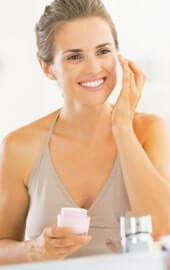
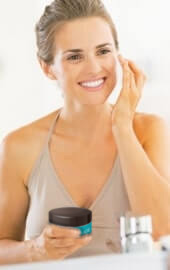
vlad

Changed region(s): [[0.2647, 0.7407, 0.5588, 0.8889]]

diff --git a/app/components/reviews/reviews.html b/app/components/reviews/reviews.html
@@ -1,4 +1,5 @@
-<section class="reviews block" id="reviews">
+<section class="reviews block"  id="reviews">
+
 	<div data-offset="20" class="rev-parallax-before parallax"></div>
 	<div data-offset="10" class="rev-parallax-back parallax"></div>
   <div class="container">
@@ -14,7 +15,7 @@
 									<div class="reviews-box__name">Оксана, 39 лет,</div>
 									<div class="reviews-box__city">Москва</div>
 									<p class="reviews-box__text">
-										Крем работает на ура и стоит
+										Гель работает на ура и стоит
 										<span class="text-nowrap">не дорого!</span> Сначала эффект был
 										<span class="text-nowrap">не очень</span> заметным, но через месяц
 										морщинки действительно разглаживаются.
@@ -31,7 +32,7 @@
 									<div class="reviews-box__city">Омск</div>
 									<p class="reviews-box__text">
 										Бедный мой косметолог расстроится, что я больше не буду к нему
-										ходить! А зачем? Этот крем эффективнее и дешевле всех этих
+										ходить! А зачем? Этот гель эффективнее и дешевле всех этих
 										посещений косметолога.
 									</p>
 								</div>
@@ -44,7 +45,7 @@
 									<div class="reviews-box__name">Кристина, 30 лет,</div>
 									<div class="reviews-box__city">Уфа</div>
 									<p class="reviews-box__text">
-										Очень удобные капсулки с кремом на день и ночь. Приятно
+										Очень удобные капсулки с гелем на день и ночь. Приятно
 										использовать. Результат порадовал - лицо посвежело, порозовело,
 										тон стал более ровным, морщины даже глубокие теперь разгладились.
 									</p>
@@ -58,7 +59,7 @@
 									<div class="reviews-box__name">Валерия, 43 года,</div>
 									<div class="reviews-box__city">Челябинск</div>
 									<p class="reviews-box__text">
-										Это средство теперь заменило мне мои ночные и дневные крема. Лицо
+										Это средство теперь заменило мне мои ночные и дневные гели. Лицо
 										заметно помолодело, и кожа стала очень приятная наощупь. Муж
 										теперь меня постоянно в щеки чмокает)
 									</p>
@@ -115,7 +116,7 @@
 									<div class="reviews-box__name">Ирина, 46 лет,</div>
 									<div class="reviews-box__city">Мурманск</div>
 									<p class="reviews-box__text">
-										Очень интересная штучка- не встречала раньше кремов в капсулках.
+										Очень интересная штучка- не встречала раньше гелей в капсулках.
 										Очень освежает и подтягивает, нас теперь с дочкой даже за
 										сестричек принимают
 									</p>
@@ -129,9 +130,9 @@
 									<div class="reviews-box__name">Светлана, 46 лет,</div>
 									<div class="reviews-box__city">Москва</div>
 									<p class="reviews-box__text">
-										Была сморщенная как курага, хоть и столько кремов уже попробовала.
-										В Бирецин сначала не верила, но раньше не встречала таких кремов с
-										комплексным подходов. Результат радует, можете на фото посмотреть
+										Была сморщенная как курага, хоть и столько гелей уже попробовала.
+										В Biorecin сначала не верила, но раньше не встречала таких гелей с
+										комплексным подходом. Результат радует, можете на фото посмотреть
 									</p>
 								</div>
 							</div>

diff --git a/app/js/main.js b/app/js/main.js
@@ -13,7 +13,7 @@ window.addEventListener("DOMContentLoaded", function() {
 		var target = $(el);
 		var targetPos = target.offset().top;
 		var winHeight = $(window).height();
-		var scrollToElem = targetPos - winHeight+200;
+		var scrollToElem = targetPos - winHeight+190;
 		$(window).scroll(function(){
 			var winScrollTop = $(this).scrollTop();
 			if(winScrollTop > scrollToElem){
@@ -42,8 +42,28 @@ window.addEventListener("DOMContentLoaded", function() {
    
 });
 var arrowClick = $('.sec-counter__current').text();
+if(arrowClick == 1){
+	$(".nav-top__link").addClass("top-disable");
+} else{
+	$(".nav-top__link").removeClass("top-disable");
+}
+if(arrowClick == 8){
+	$(".nav-bottom__link").addClass("bottom-disable");
+} else{
+	$(".nav-bottom__link").removeClass("bottom-disable");
+}
 $( window ).scroll(function() {
 	var arrowClick = $('.sec-counter__current').text();
+	if(arrowClick == 1){
+		$(".nav-top__link").addClass("top-disable");
+	} else{
+		$(".nav-top__link").removeClass("top-disable");
+	}
+	if(arrowClick == 8){
+		$(".nav-bottom__link").addClass("bottom-disable");
+	} else{
+		$(".nav-bottom__link").removeClass("bottom-disable");
+	}
 	if(arrowClick == 1){
 		$(".nav-bottom__link").attr("href", "#properties");
 		$(".nav-top__link").attr("href", "#");
@@ -103,7 +123,7 @@ var sliderSelector = ".swiper-container",
     breakpoints: {
       1189: {
         coverflowEffect: {
-          depth: 600 // Depth offset in px (slides translate in Z axis)
+          depth: 720 // Depth offset in px (slides translate in Z axis)
         }
       },
       1023: {

diff --git a/app/components/reviews/reviews.sass b/app/components/reviews/reviews.sass
@@ -1,6 +1,9 @@
 .reviews
 	padding: 120px 0
+	margin-bottom: 130px
 	position: relative
+	+r(1189)
+		margin-bottom: 60px
 	&:before
 		content: ''
 		position: absolute
@@ -12,6 +15,8 @@
 		background-color: #f7f3ee
 	+r(1189)
 		padding: 60px 0
+	+r(1023)
+		margin-bottom: 0
 	.container
 		position: relative
 	&-content
@@ -123,18 +128,18 @@
 .swiper-button-prev,.swiper-button-next
 	position: absolute
 	top: 50%
-	left: -90px
+	left: 0px
 	transform: translateY(-330%)
 	fill: #bfad95
 	transition: .5s
-	+r(1360)
-		left: -50px
-	+r(1280)
+	+r(1200)
 		top: 0
 		transform: none
 		left: 0
-	+r(767)
+	+r(1189)
 		top: -30px
+		left: 20px
+	+r(767)
 		left: 50%
 		transform: translateX(-154%)
 	+r(479)
@@ -143,13 +148,12 @@
 	&:hover
 		fill: #0aa5b5
 .swiper-button-next
-	right: -90px
+	right: 0px
 	left: auto
-	+r(1360)
-		right: -50px
-		left: auto
-	+r(1280)
+	+r(1200)
 		right: 0
+	+r(1189)
+		right: 20px
 	+r(767)
 		right: 50%
 		left: auto
@@ -236,6 +240,10 @@
 		margin-left: auto
 		margin-right: 211px
 		background-color: #f3eee8
+		+r(1189)
+			margin-top: 5px
+		+r(1023)
+			margin-top: -7px
 .swiper-slide-next
 	.reviews-box__img
 		transform: scale(1.5)
@@ -243,3 +251,7 @@
 		margin-top: 10px
 		margin-left: 206px
 		background-color: #f3eee8
+		+r(1189)
+			margin-top: 5px
+		+r(1023)
+			margin-top: -7px

diff --git a/app/components/navbar/navbar.sass b/app/components/navbar/navbar.sass
@@ -9,6 +9,8 @@
 	align-items: center
 	justify-content: center
 	flex-direction: column
+	+r(1500)
+		display: none
 .sec-counter-block
 	width: 50px
 	height: 50px
@@ -39,6 +41,7 @@
 	position: relative
 	overflow: hidden
 	margin: 17px 0
+	box-shadow: inset 0 0 0 0.5px #fff
 .sec-counter-block_full
 	background-color: #fff
 	overflow: hidden
@@ -76,7 +79,7 @@
 	-webkit-transform-origin: left
 	-ms-transform-origin: left
 	transform-origin: left
-	transform: rotate(40deg)
+	transform: rotate(45deg)
 	z-index: 2
 
 .sec-counter__right_full
@@ -105,3 +108,25 @@
 	justify-content: center
 	position: relative
 	z-index: 3
+.nav-top
+	width: 9px
+	height: 20px
+.nav-top__link
+	display: block
+	width: 9px
+	height: 20px
+	background: url(../img/arrow-top.png) no-repeat center
+.nav-bottom
+	width: 9px
+	height: 20px
+.nav-bottom__link
+	display: block
+	width: 9px
+	height: 20px
+	background: url(../img/arrow-bottom.png) no-repeat center
+.top-disable
+	pointer-events: none
+	background: url(../img/top-no-active.png) no-repeat center
+.bottom-disable
+	pointer-events: none
+	background: url(../img/bottom-no-active.png) no-repeat center

diff --git a/app/components/navbar/navbar.html b/app/components/navbar/navbar.html
@@ -1,5 +1,5 @@
 <div class="sec-counter">
-	<div class="nav-top"><a class="nav-top__link" href=""><img src="img/arrow-top.png" alt=""></a></div>
+	<div class="nav-top"><a class="nav-top__link" href=""></a></div>
 	<div class="sec-counter-block">
 		<div class="sec-counter__left"></div>
 		<div class="sec-counter__numbers">
@@ -7,5 +7,5 @@
 		</div>
 		<div class="sec-counter__right"></div>
 	</div>
-	<div class="nav-bottom"><a class="nav-bottom__link" href="#properties"><img src="img/arrow-bottom.png" alt=""></a></div>
+	<div class="nav-bottom"><a class="nav-bottom__link" href="#properties"></a></div>
 </div>

diff --git a/app/components/footer/footer.html b/app/components/footer/footer.html
@@ -2,8 +2,9 @@
 	<div class="container">
 			<div class="footer-content">
 				<img class="footer-logo" src="img/rp.svg" alt="Rocket">
-				<p class="footer-text">ООО "Восток" </p>
+				<p class="footer-text">ООО "Восток"</p>
 				<p class="footer-text">г. Москва, ул. Чоботовская, д.17</p>
+				<p class="footer-text">ИНН 7729483180, ОГРН 5157746081873</p>
 				<a class="footer-link" href="privacy.html" target="_blank">Политика конфиденциальности</a>
 			</div>
 	</div>

diff --git a/app/components/about/about.html b/app/components/about/about.html
@@ -2,7 +2,7 @@
 	<div data-offset="30" class="r-parallax-back parallax"></div>
 	<div class="container">
 		<h2 class="title">Biorecin - <br>	
-				это профессиональный крем<br>
+				это профессиональный гель<br>
 				для полноценного омоложения кожи</h2>
 				<div class="about-subtitle">Как это работает?</div>
 				<div class="about-content">

diff --git a/app/components/parallax/parallax.sass b/app/components/parallax/parallax.sass
@@ -23,7 +23,7 @@
 	height: 80px
 	background: url(../img/a-parallax-before.png) no-repeat center
 	position: absolute
-	bottom: 77px
+	bottom: -30px
 	left: 50%
 	margin-left: -412px
 	z-index: 1
@@ -83,7 +83,7 @@
 	height: 545px
 	background: url(../img/rev-parallax-back.png) no-repeat center
 	position: absolute
-	bottom: 140px
+	bottom: 77px
 	left: 50%
 	margin-left: 6px
 	z-index: 1

diff --git a/app/components/use/use.html b/app/components/use/use.html
@@ -3,7 +3,7 @@
 	<div class="container">
 		<h2 class="title">Как применять<br>
 			Biorecin</h2>
-			<div class="use-content">
+			<div class="use-content"  id="use">
 				<div class="use-content__capsule">
 					<div class="capsule-day"><img src="img/capsule-1.png" alt="capsule"></div>
 					<div class="capsule-night"><img src="img/capsule-2.png" alt="capsule"></div>

diff --git a/app/components/torder/torder.html b/app/components/torder/torder.html
@@ -1,4 +1,5 @@
-<section class="torder block" id="torder">
+<section class="torder block" >
+	<div class="help-scroll" id="torder"></div>
 		<div data-offset="15" class="t-parallax-before parallax"></div>
 		<div data-offset="50" class="t-parallax-back parallax"></div>
 	<div class="container">

diff --git a/app/components/torder/torder.sass b/app/components/torder/torder.sass
@@ -157,3 +157,14 @@
 		font-size: 70px
 	+r(639)
 		font-size: 50px
+.help-scroll
+	position: absolute
+	top: 0
+	left: 50%	
+	transform: translateX(-50%)
+	width: 1190px
+	height: 700px
+	top: -280px
+	z-index: -1
+	+r(1500)
+		display: none

diff --git a/app/components/use/use.sass b/app/components/use/use.sass
@@ -1,8 +1,8 @@
 .use
-	padding: 110px 0 140px
+	padding: 0px 0 140px
 	position: relative
 	+r(1189)
-		padding: 60px 0
+		padding: 0px 0 60px
 	.title
 		+r(1023)
 			br
